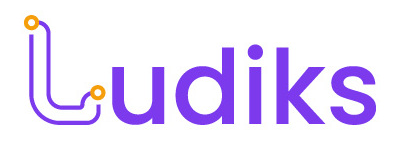
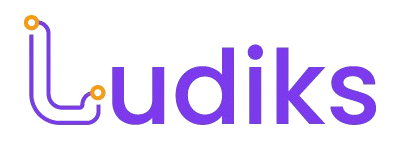
Update

diff --git a/app/[locale]/page.tsx b/app/[locale]/page.tsx
@@ -16,7 +16,6 @@ import {
 } from 'lucide-react';
 import { Button } from '@/components/ui/button';
 import { Navigation } from '@/components/navigation';
-import { PreloadManager } from '@/components/preload-manager';
 import { SimpleEstimator } from '@/components/pricing/simple-estimator';
 import { StrategyGenerator } from '@/components/strategy/generator';
 import { Modal } from '@/components/ui/modal';
@@ -27,7 +26,6 @@ export default function HomePage() {
   const [isMobile, setIsMobile] = useState(false);
   const [showStrategyModal, setShowStrategyModal] = useState(false);
 
-  // Window size detection
   useEffect(() => {
     const checkMobile = () => setIsMobile(window.innerWidth < 768);
     checkMobile();
@@ -35,7 +33,6 @@ export default function HomePage() {
     return () => window.removeEventListener('resize', checkMobile);
   }, []);
 
-  // Updated engagement data to show the drop at "Profile photo" step
   const engagementData = [
     { name: t('showcase.onboarding.chart.steps.1'), completion: 100, users: 1250 },
     { name: t('showcase.onboarding.chart.steps.2'), completion: 85, users: 1060 },
@@ -45,8 +42,6 @@ export default function HomePage() {
 
   return (
     <div className="min-h-screen bg-gradient-to-br from-background via-background to-muted/20">
-      <PreloadManager />
-      
       {/* Navigation */}
       <Navigation />
 

diff --git a/components/navigation.tsx b/components/navigation.tsx
@@ -27,10 +27,10 @@ export function Navigation() {
               className="flex items-center h-full"
             >
                 <Image
-                  src="/ludiks-home.png"
+                  src="/ludiks-7.png"
                   alt="Ludiks Logo"
-                  width={90}
-                  height={35}
+                  width={120}
+                  height={40}
                   style={{
                     objectFit: "contain",
                     background: "transparent",
@@ -40,7 +40,6 @@ export function Navigation() {
             </Link>
           </div>
 
-          {/* Desktop Navigation */}
           <div className="hidden md:flex items-center space-x-8">
             <Link
               href="/pricing"
@@ -62,7 +61,6 @@ export function Navigation() {
             </Link>
           </div>
 
-          {/* Mobile menu button */}
           <div className="md:hidden">
             <Button
               variant="ghost"
